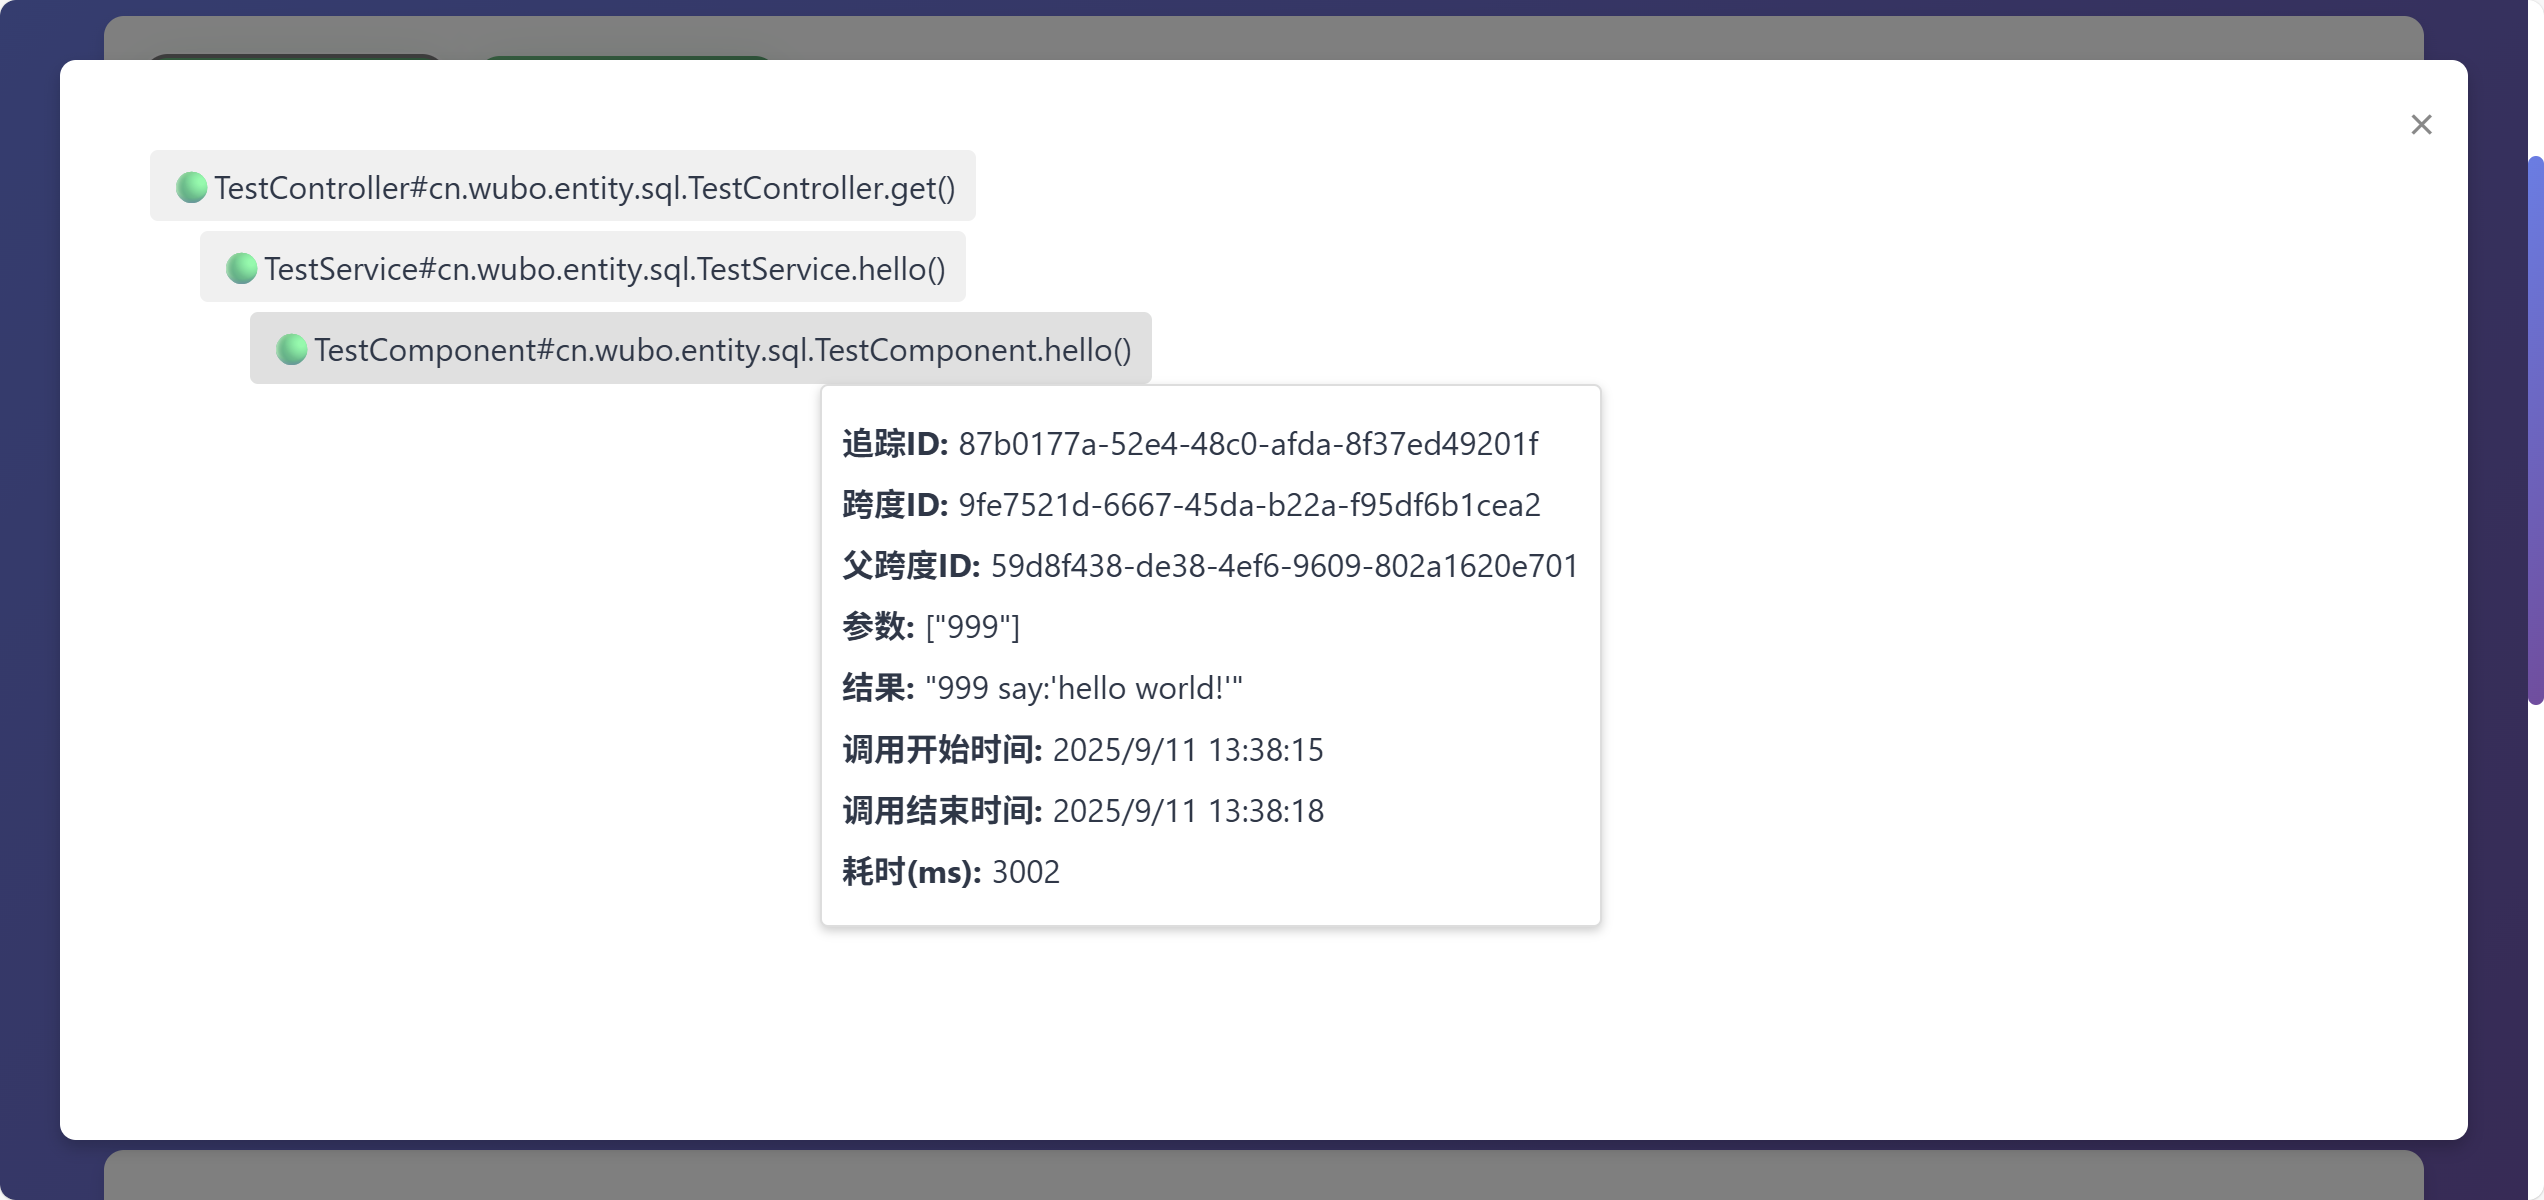
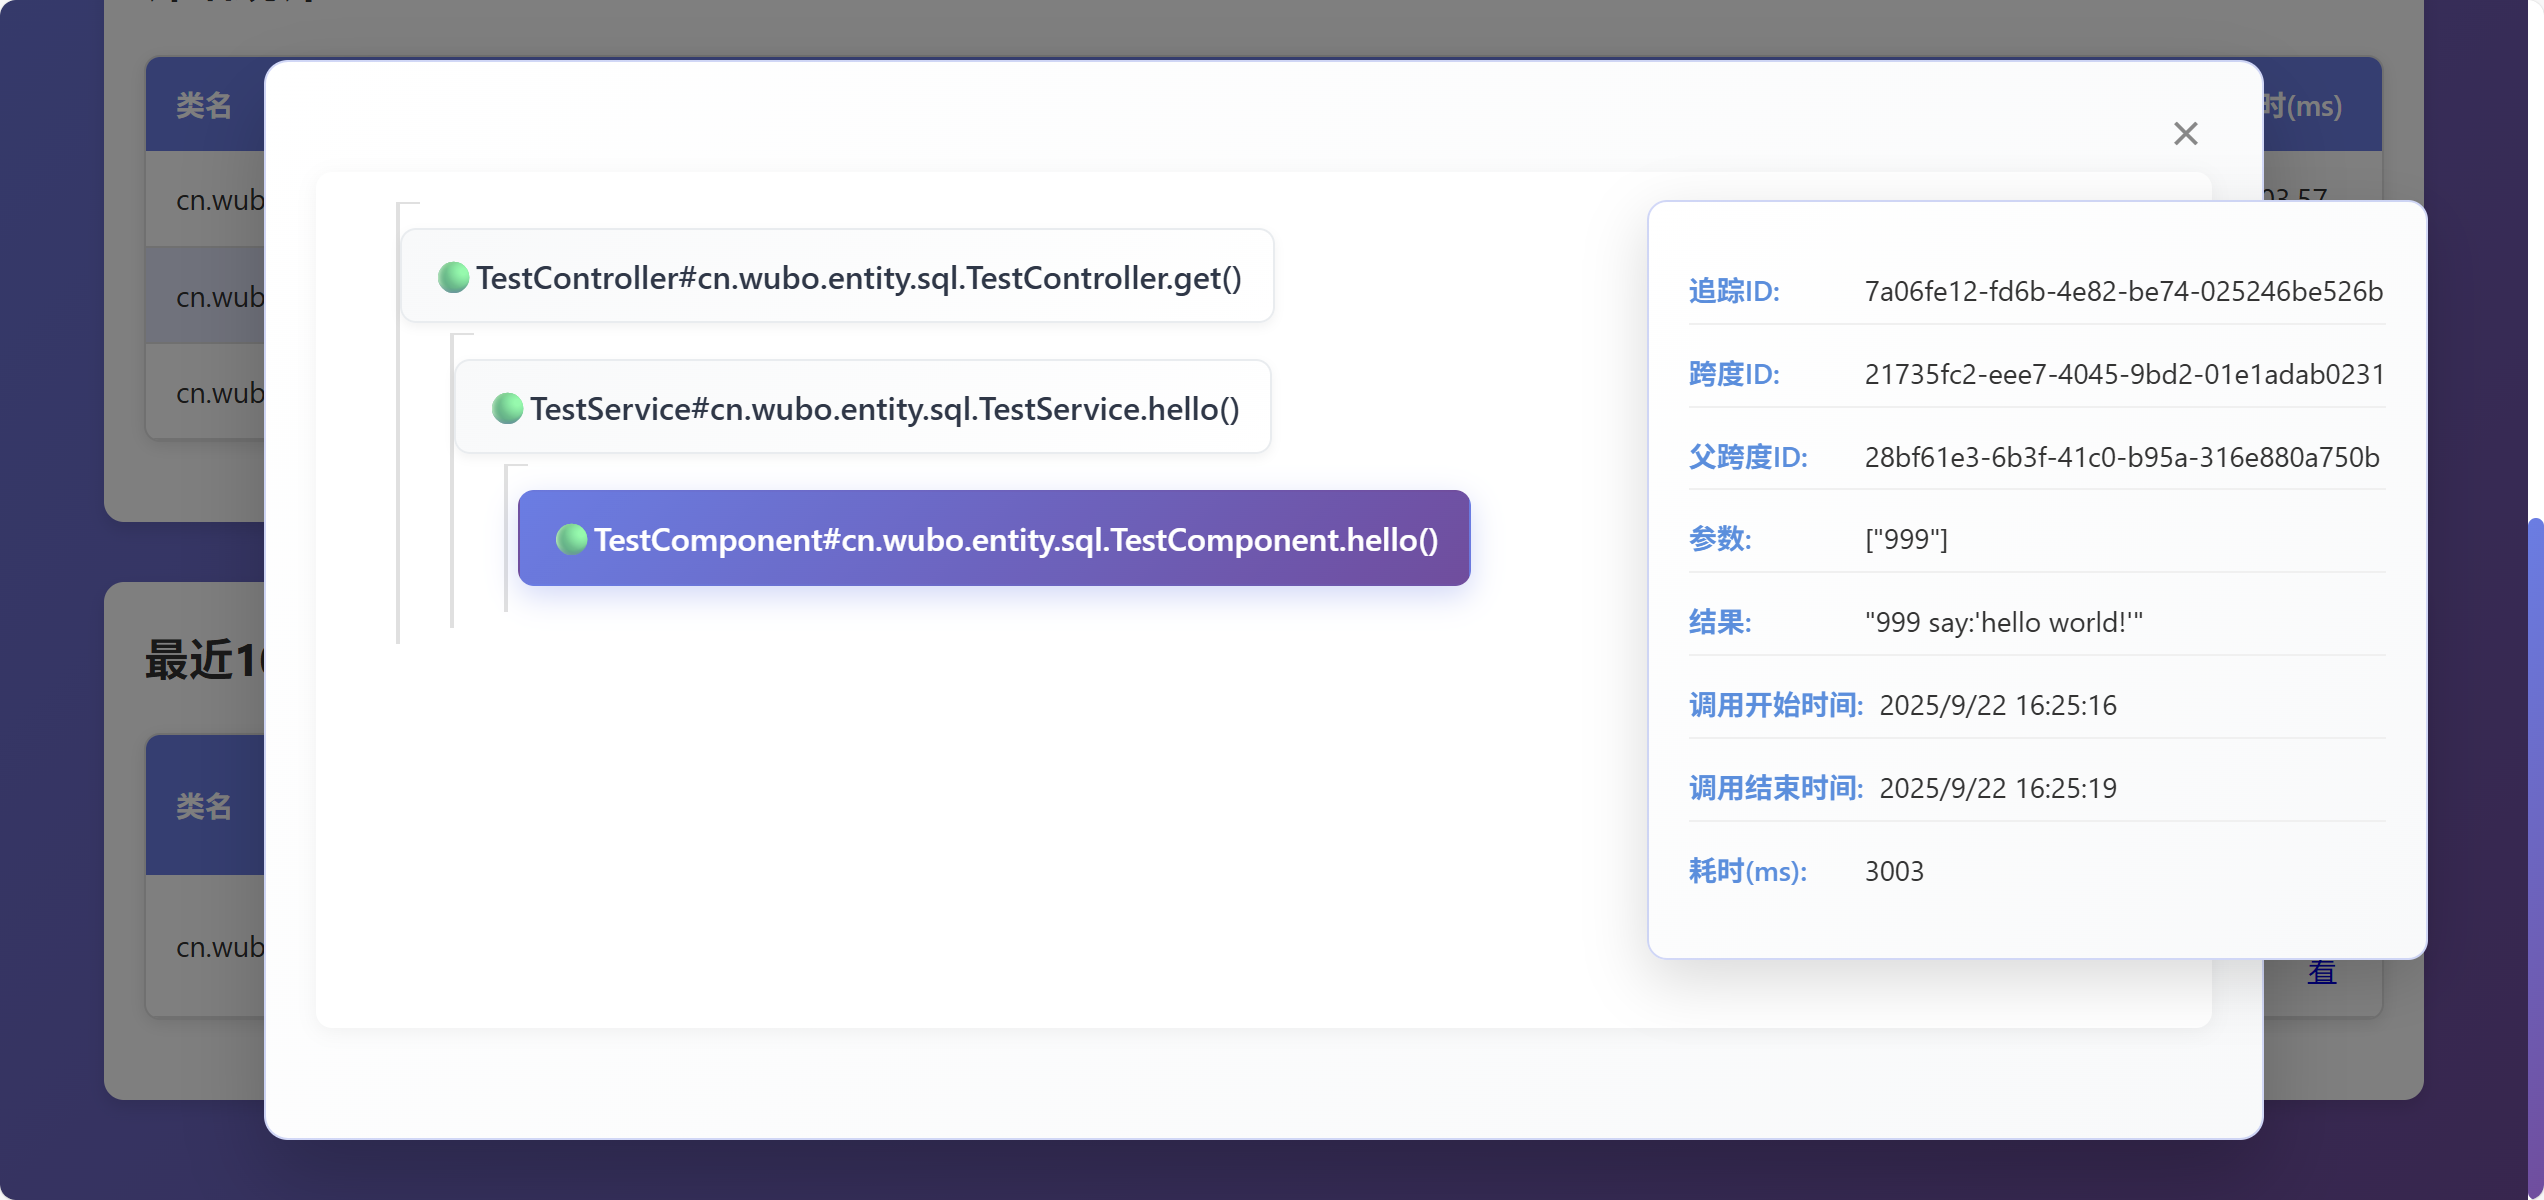
feat(view): 更新版本号并优化弹出框与树节点样式 -将 methodTraceLog-spring-boot-starter 版本从1.0.12 升级至 1.0.13 -优化弹出框样式：使用渐变背景、调整尺寸与阴影效果 -改进关闭按钮样式与悬停动画效果- 树节点容器增加内边距与阴影，提升视觉层次 -节点内容区域增强交互反馈，添加悬停动效与渐变背景 -节点信息弹窗重新定位并优化布局与动画效果 -为节点信息值添加样式类以提升可读性

diff --git a/methodTraceLog/src/main/resources/META-INF/resources/static/view.css b/methodTraceLog/src/main/resources/META-INF/resources/static/view.css
@@ -246,73 +246,140 @@ table {
 
 /* 弹出框内容区域 */
 .modal-content {
-    background-color: #fff;
-    margin: 30px;
-    padding: 20px;
-    border-radius: 8px;
-    box-shadow: 0 4px 8px rgba(0, 0, 0, 0.2);
+    background: linear-gradient(135deg, #ffffff 0%, #f8f9fa 100%);
+    margin: 30px auto;
+    padding: 25px;
+    border-radius: 12px;
+    box-shadow: 0 20px 40px rgba(0, 0, 0, 0.2);
     position: relative;
-    width: calc(100% - 60px);
+    width: 90%;
+    max-width: 1000px;
     height: calc(100% - 60px);
+    max-height: 800px;
+    overflow: hidden;
+    border: 1px solid rgba(102, 126, 234, 0.3);
 }
 
 /* 关闭按钮（×） */
 .close-btn {
     position: absolute;
-    right: 15px;
-    top: 10px;
-    font-size: 24px;
+    right: 20px;
+    top: 15px;
+    font-size: 28px;
     cursor: pointer;
     color: #888;
+    width: 36px;
+    height: 36px;
+    display: flex;
+    align-items: center;
+    justify-content: center;
+    border-radius: 50%;
+    transition: all 0.3s ease;
 }
 
 .close-btn:hover {
-    color: #000;
+    color: #e74c3c;
+    background-color: rgba(231, 76, 60, 0.1);
+    /*transform: rotate(90deg);*/
+    /*transform-origin: 50% 50%;*/
 }
 
 .tree-container {
-    margin-top: 20px;
+    margin-top: 30px;
+    padding: 15px;
+    height: calc(100% - 60px);
+    overflow-y: auto;
+    background-color: white;
+    border-radius: 8px;
+    box-shadow: 0 2px 10px rgba(0, 0, 0, 0.05);
 }
+
 .tree-node {
-    margin-left: 20px;
-    padding: 5px;
+    margin-left: 25px;
+    padding: 8px 0;
     position: relative;
+    border-left: 2px solid #e0e0e0;
 }
-.node-content {
-    display: inline-block;
-    padding: 5px 10px;
-    border-radius: 4px;
-    background-color: #f0f0f0;
-    cursor: pointer;
-}
-.node-content:hover {
+
+.tree-node::before {
+    content: '';
+    position: absolute;
+    left: -2px;
+    top: 0;
+    width: 12px;
+    height: 1px;
     background-color: #e0e0e0;
 }
+
+.node-content {
+    display: inline-block;
+    padding: 10px 15px;
+    border-radius: 8px;
+    background: linear-gradient(135deg, #f8f9fa 0%, #ffffff 100%);
+    cursor: pointer;
+    box-shadow: 0 2px 5px rgba(0, 0, 0, 0.05);
+    border: 1px solid #e9ecef;
+    font-weight: 500;
+    transition: all 0.3s ease;
+    margin: 5px 0;
+}
+
+.node-content:hover {
+    background: linear-gradient(135deg, #667eea 0%, #764ba2 100%);
+    color: white;
+    transform: translateX(5px);
+    box-shadow: 0 5px 15px rgba(102, 126, 234, 0.3);
+    border-color: transparent;
+}
+
 .node-info {
     display: none;
     position: fixed;
-    /*left: 50%;*/
-    /*top: 0;*/
-    left: 400px;
-    margin-left: 10px;
-    padding: 10px;
-    background-color: white;
-    border: 1px solid #ddd;
-    border-radius: 4px;
-    box-shadow: 0 2px 5px rgba(0,0,0,0.2);
-    z-index: 100;
-    min-width: 200px;
-    white-space: nowrap;
+    left: auto;
+    right: 50px;
+    top: 100px;
+    padding: 20px;
+    background: linear-gradient(135deg, #ffffff 0%, #f8f9fa 100%);
+    border: 1px solid rgba(102, 126, 234, 0.3);
+    border-radius: 10px;
+    box-shadow: 0 10px 30px rgba(0, 0, 0, 0.15);
+    z-index: 1001;
+    min-width: 350px;
+    font-size: 14px;
 }
-.node-content:hover + .node-info, .node-info:hover {
+
+.node-content:hover + .node-info,
+.node-info:hover {
     display: block;
+    animation: fadeIn 0.3s ease;
 }
+
+@keyframes fadeIn {
+    from { opacity: 0; transform: translateY(-10px); }
+    to { opacity: 1; transform: translateY(0); }
+}
+
 .node-info-item {
-    margin: 5px 0;
+    margin: 8px 0;
+    padding: 5px 0;
+    border-bottom: 1px solid #f0f0f0;
 }
+
+.node-info-item:last-child {
+    border-bottom: none;
+}
+
 .node-info-label {
-    font-weight: bold;
-    margin-right: 5px;
+    font-weight: 600;
+    color: #4a90e2;
+    margin-right: 8px;
+    display: inline-block;
+    min-width: 80px;
+}
+
+.node-info-value {
+    color: #333;
+    word-break: break-all;
 }
 
 /* 表格容器样式 - 控制滚动 */

diff --git a/methodTraceLog/src/main/resources/view.html b/methodTraceLog/src/main/resources/view.html
@@ -73,7 +73,7 @@
     <!-- 弹出框结构 -->
     <div id="modal" class="modal">
         <div class="modal-content">
-            <span class="close-btn">&times;</span>
+            <span class="close-btn">🗙</span>
             <div id="tree-container" class="tree-container"></div>
         </div>
     </div>

diff --git a/methodTraceLog/src/main/resources/META-INF/resources/static/view.js b/methodTraceLog/src/main/resources/META-INF/resources/static/view.js
@@ -266,6 +266,7 @@ function createNodeElement(nodeData) {
         labelElem.textContent = label + ':';
 
         const valueElem = document.createElement('span');
+        valueElem.className = 'node-info-value';
         valueElem.textContent = value;
 
         item.appendChild(labelElem);

diff --git a/README.md b/README.md
@@ -45,7 +45,7 @@
 <dependency>
     <groupId>com.gitee.wb04307201.methodTraceLog</groupId>
     <artifactId>methodTraceLog-spring-boot-starter</artifactId>
-    <version>1.0.12</version>
+    <version>1.0.13</version>
 </dependency>
 ```
 
